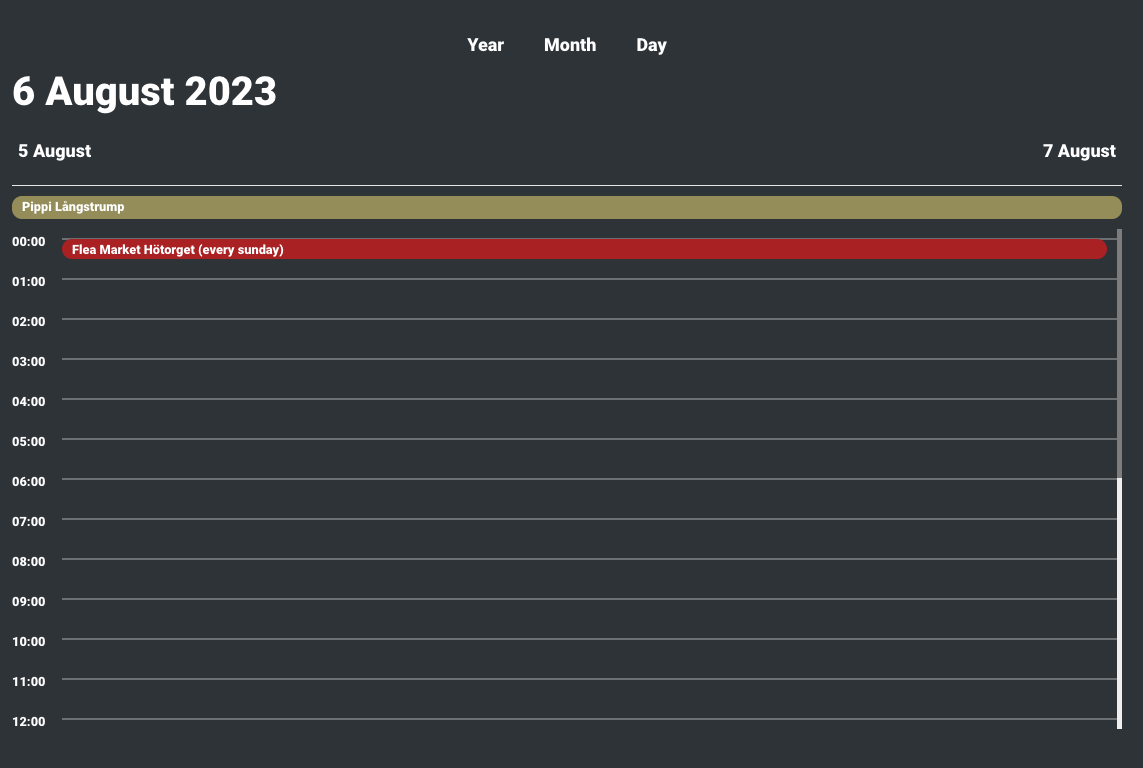
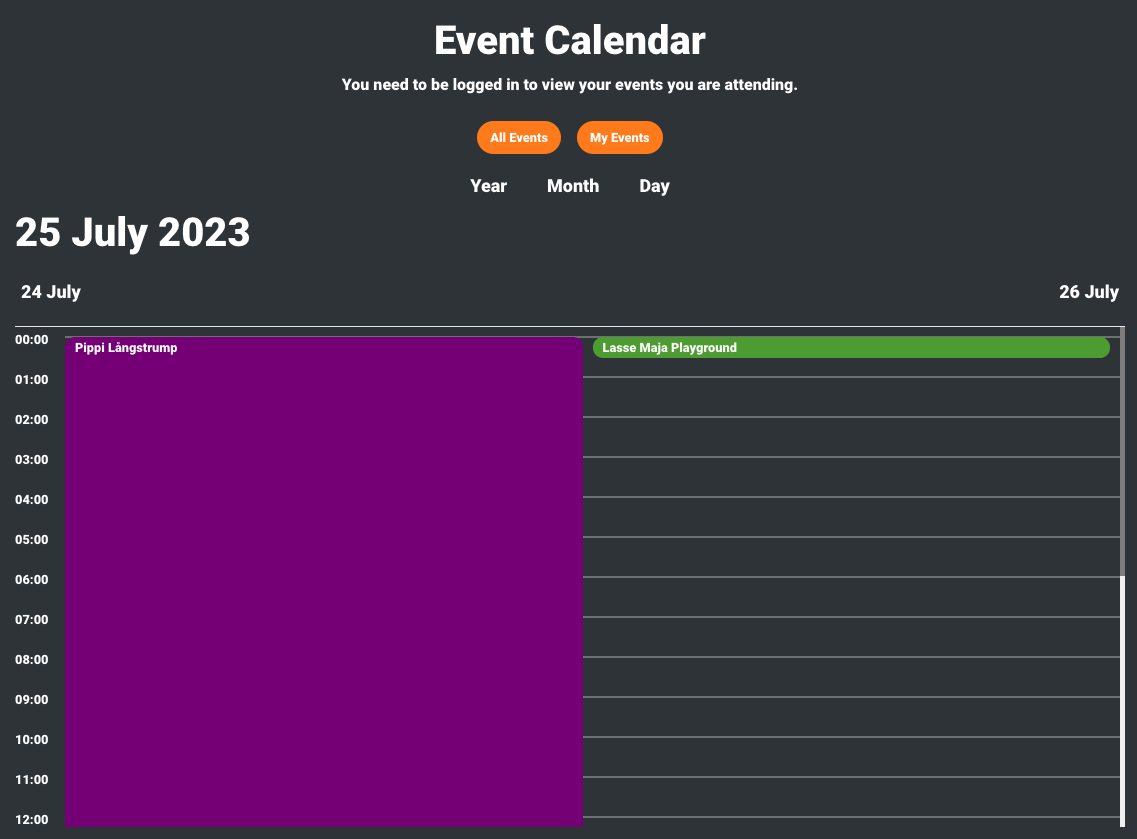
Updated images on readme with new look on calendar and map

diff --git a/src/pages/calendar/EventCalendar.js b/src/pages/calendar/EventCalendar.js
@@ -108,7 +108,7 @@ const EventCalendar = () => {
 
       setUserEvents(userEvents);
 
-      // Filter all event.id to match users attend.event
+      // filter all event.id to match users attend.event
       const myEvents = eventsData.filter((eventData) =>
         userEvents.some((userEvent) => userEvent.event === eventData.id)
       );
@@ -125,7 +125,7 @@ const EventCalendar = () => {
       <div className="text-center">
         <h1>Event Calendar</h1>
         <p className="text-white">
-          Show all events or the ones you are attending.
+          You need to be logged in to view your events you are attending.
         </p>
         <Button
           className={`${btnStyles.BtnCalendar} m-2`}

diff --git a/README.md b/README.md
@@ -15,7 +15,8 @@ View live website here: LINK
 
 ---
 
-Am i responsive image 
+### Am i responsive image 
+![Screenshot](/src/images/am_i_responsive.png)
 
 ---
 
@@ -47,6 +48,7 @@ Am i responsive image
     - [Ratings](#ratings-data)
     - [Categories](#categories)
     - [Footer](#footer)
+    - [Future](#future-features)
 - [Structure](#structure)
     - [Database](#database)
     - [Wireframe](#wireframes)
@@ -206,7 +208,7 @@ Feed page if user follow other users:
 - Starting page that includes many features, it shows the weather, a search bar and a selector for categories.
 The events are all shown in column and uses infinite scroll to load on demand. It also shows statistics for the event, 
 how many comments it has, what rating and lets you as a registered user click the attend button to show that you are
-attending the event.   
+attending the event. All events also shows the events category with its own color on the event image.   
 ![Screenshot](src/images/homepage_event.png)     
 
 ### Create Event form
@@ -273,6 +275,11 @@ Categories displaying in the dropdown.
 ![Screenshot](src/images/footer_readme.png) 
 
 
+## Future features
+- Add click function to popup on the map so you get to the event detail.   
+- Auto update rating when submitting a new one instead of the need to refresh page.   
+- Add a own review page for events, model already in place on backend.
+- Would like to have the option to add more images on events.
 ---
 
 ### Structure
@@ -311,7 +318,10 @@ Categories displaying in the dropdown.
 
 #### Colour
 
-![screenshot](src/assets/color-palette.png)
+![screenshot](src/assets/color-palette.png)    
+
+Categories palette.   
+![Screenshot](src/images/category_colors.png)      
 
 #### Fonts and Typography
 
@@ -401,7 +411,6 @@ Iteration [3](https://github.com/users/andreas-ka/projects/17)
 Iteration [4](https://github.com/users/andreas-ka/projects/18)     
 Iteration [5](https://github.com/users/andreas-ka/projects/19)    
 Iteration [6](https://github.com/users/andreas-ka/projects/20)     
-
 
 ---
 

diff --git a/TESTING.md b/TESTING.md
@@ -3,3 +3,7 @@ Back to [README.md](/README.md)
 
 ### Manual Testing on the frontend i have done.
 
+All manual testing can be found in this Google Sheet found [here](https://docs.google.com/spreadsheets/d/1SI37C_QfKiTO75sShmg1B0r8Dor87qpLhmL8UYKBUsI/edit?usp=sharing)
+
+Example from that file below:
+![Screenshot](/src/images/testing_example.png)
